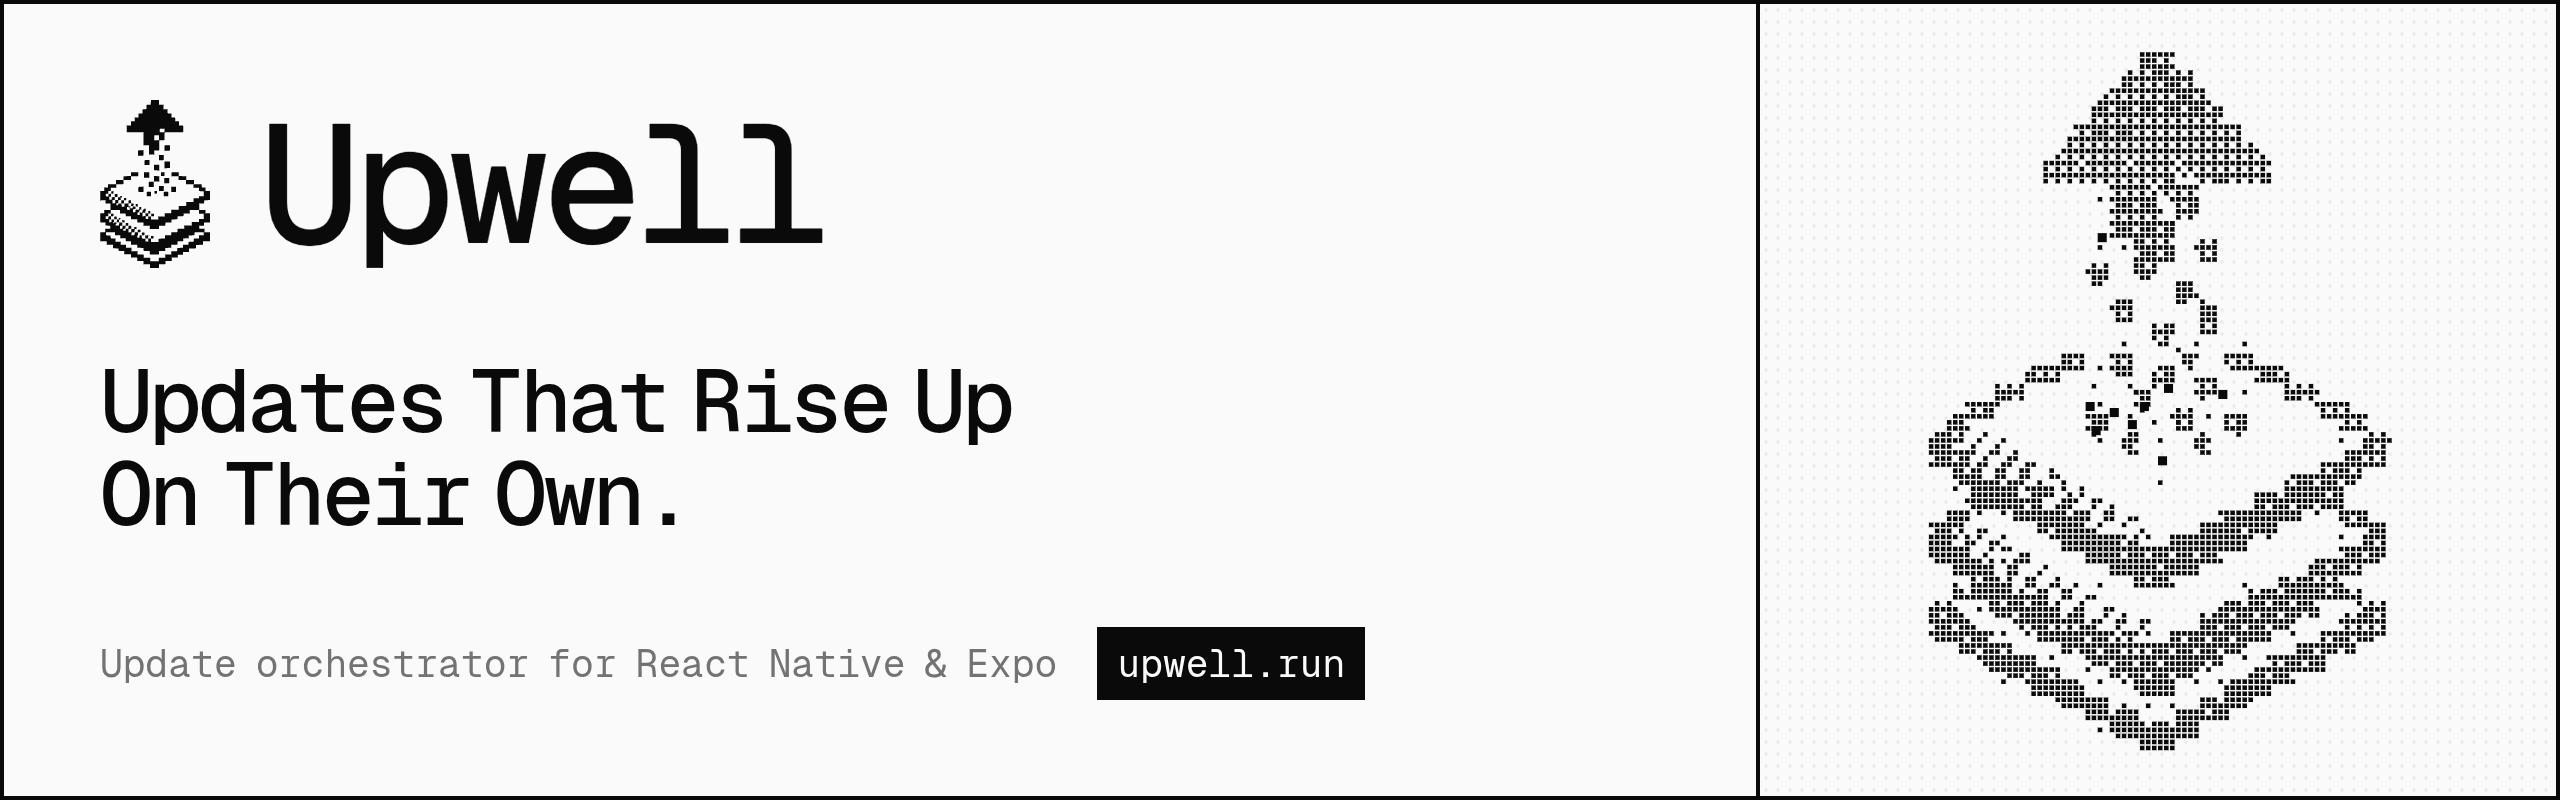
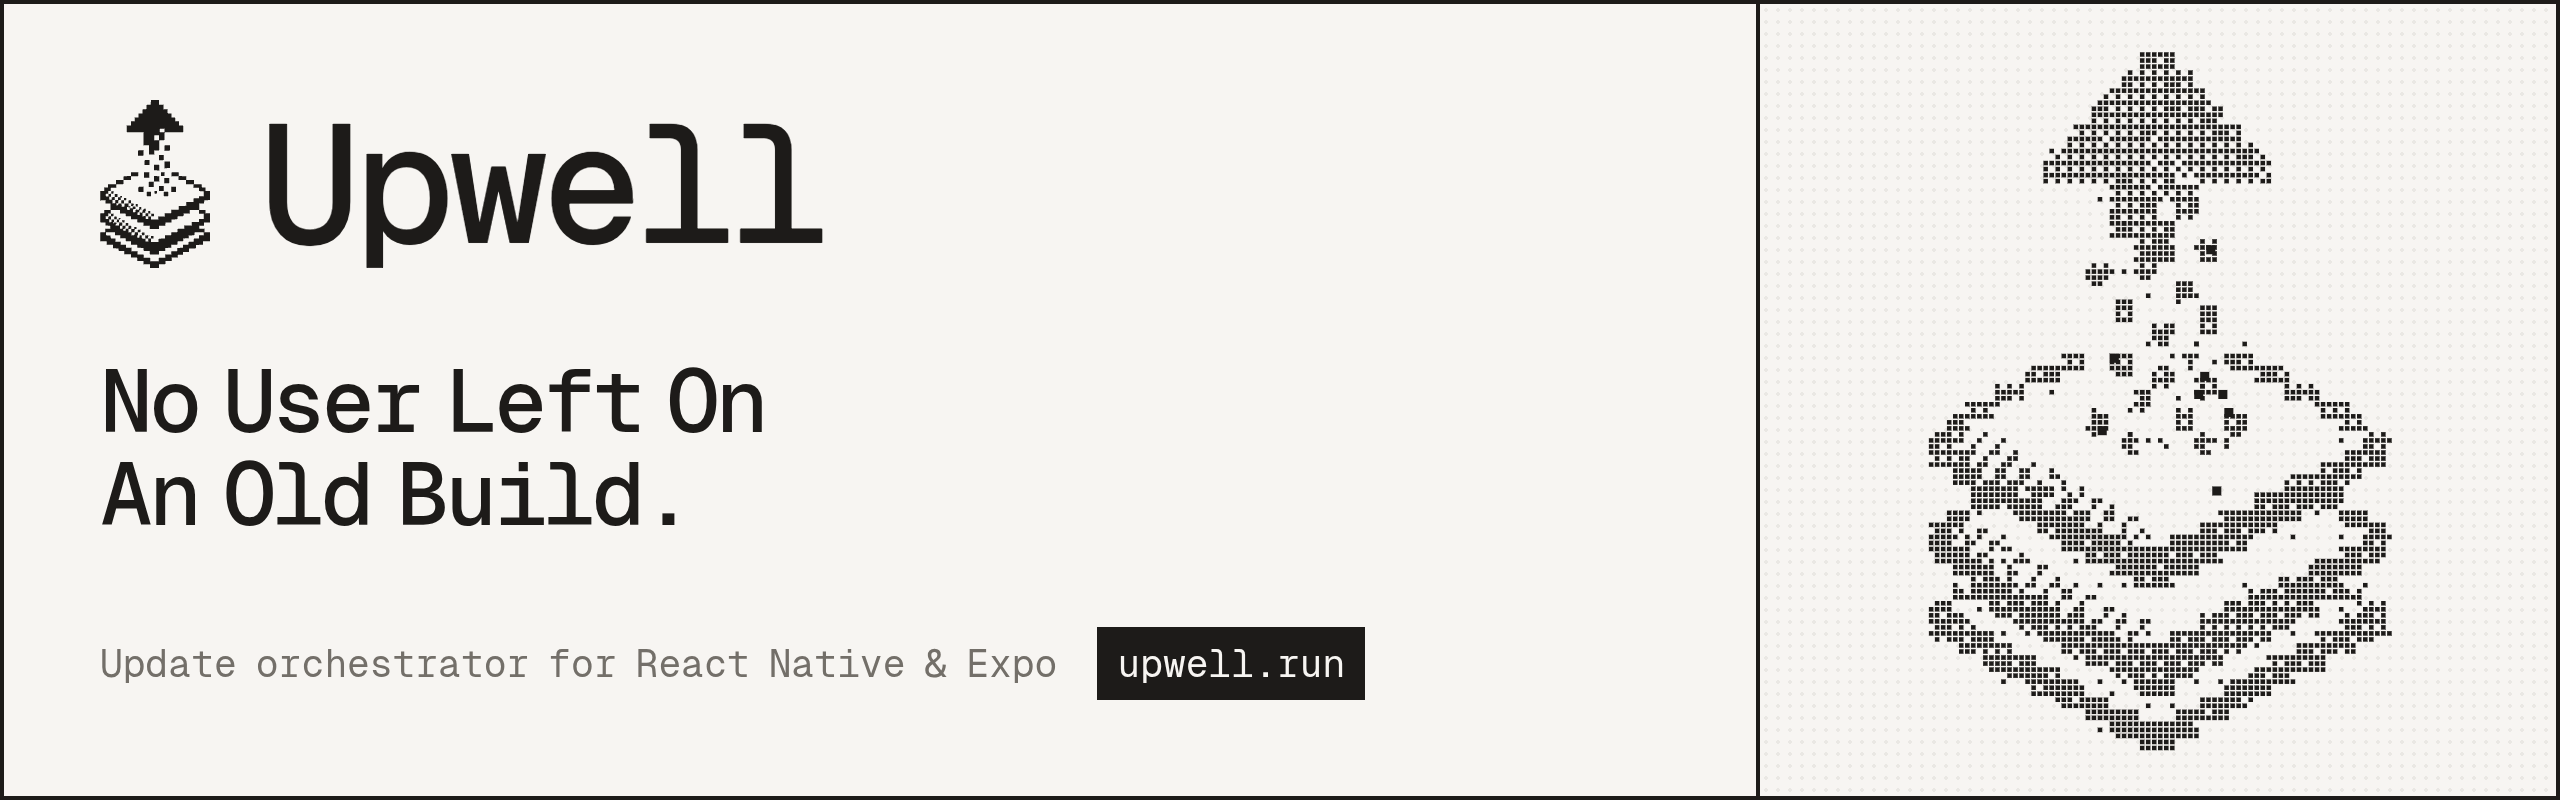
feat(landing): toned-down monochrome palette and new hero copy
Warm off-white and off-black instead of pure #fafafa/#0a0a0a, with a
warm neutral scale. Hero and brand cards now lead with "No user left on
an old build." Banners and social images re-rendered.

Claude-Session: https://claude.ai/code/session_01RX4BmMoDWeVe1veCF2cV8t

diff --git a/apps/landing/app/global.css b/apps/landing/app/global.css
@@ -1,45 +1,58 @@
 @import 'tailwindcss';
 
-/* Upwell design system: monochrome. Source of truth: BRAND.md */
+/* Upwell design system: monochrome, toned down (warm off-white and off-black). Source of truth: BRAND.md */
 @theme {
-  --color-background: #fafafa;
-  --color-foreground: #0a0a0a;
-  --color-muted: #f5f5f5;
-  --color-muted-foreground: #737373;
-  --color-popover: #ffffff;
-  --color-popover-foreground: #0a0a0a;
-  --color-card: #ffffff;
-  --color-card-foreground: #0a0a0a;
-  --color-border: #e5e5e5;
-  --color-primary: #0a0a0a;
-  --color-primary-foreground: #fafafa;
-  --color-secondary: #f5f5f5;
-  --color-secondary-foreground: #0a0a0a;
-  --color-accent: #f2f2f2;
-  --color-accent-foreground: #0a0a0a;
-  --color-ring: #a3a3a3;
+  --color-background: #f7f5f2;
+  --color-foreground: #1d1b19;
+  --color-muted: #efedea;
+  --color-muted-foreground: #736f69;
+  --color-popover: #fcfbf9;
+  --color-popover-foreground: #1d1b19;
+  --color-card: #fcfbf9;
+  --color-card-foreground: #1d1b19;
+  --color-border: #e2dfda;
+  --color-primary: #1d1b19;
+  --color-primary-foreground: #f7f5f2;
+  --color-secondary: #efedea;
+  --color-secondary-foreground: #1d1b19;
+  --color-accent: #edeae6;
+  --color-accent-foreground: #1d1b19;
+  --color-ring: #a8a49e;
+
+  /* Warm-tinted neutral scale, so hard-coded neutral-* utilities match the tokens. */
+  --color-neutral-50: #fbfaf8;
+  --color-neutral-100: #f6f4f1;
+  --color-neutral-200: #e7e4df;
+  --color-neutral-300: #d7d3cd;
+  --color-neutral-400: #a5a19a;
+  --color-neutral-500: #77736c;
+  --color-neutral-600: #55524d;
+  --color-neutral-700: #423f3b;
+  --color-neutral-800: #282623;
+  --color-neutral-900: #191816;
+  --color-neutral-950: #0f0e0c;
 
   --font-sans: var(--font-geist-mono), ui-monospace, SFMono-Regular, Menlo, monospace;
   --font-mono: var(--font-geist-mono), ui-monospace, SFMono-Regular, Menlo, monospace;
 }
 
 .dark {
-  --color-background: #0a0a0a;
-  --color-foreground: #fafafa;
-  --color-muted: #141414;
-  --color-muted-foreground: #a3a3a3;
-  --color-popover: #111111;
-  --color-popover-foreground: #fafafa;
-  --color-card: #111111;
-  --color-card-foreground: #fafafa;
-  --color-border: #262626;
-  --color-primary: #fafafa;
-  --color-primary-foreground: #0a0a0a;
-  --color-secondary: #171717;
-  --color-secondary-foreground: #fafafa;
-  --color-accent: #1a1a1a;
-  --color-accent-foreground: #fafafa;
-  --color-ring: #525252;
+  --color-background: #151412;
+  --color-foreground: #efedea;
+  --color-muted: #1f1e1b;
+  --color-muted-foreground: #a49f98;
+  --color-popover: #1b1a18;
+  --color-popover-foreground: #efedea;
+  --color-card: #1b1a18;
+  --color-card-foreground: #efedea;
+  --color-border: #302d2a;
+  --color-primary: #efedea;
+  --color-primary-foreground: #151412;
+  --color-secondary: #22201e;
+  --color-secondary-foreground: #efedea;
+  --color-accent: #262421;
+  --color-accent-foreground: #efedea;
+  --color-ring: #585550;
 }
 
 @layer base {

diff --git a/apps/landing/app/page.tsx b/apps/landing/app/page.tsx
@@ -232,17 +232,17 @@ export default function HomePage() {
         <section className="relative grid min-w-0 items-center gap-8 px-6 pt-16 pb-10 md:grid-cols-[1.1fr_1fr] md:px-12 md:pt-24">
           <div className="relative z-10 flex min-w-0 flex-col items-start gap-6">
             <span className="rounded-full border bg-card px-3 py-1 text-xs text-muted-foreground">
-              v0.1 · React Native · Expo
+              Open source · React Native · Expo
             </span>
             <h1 className="upwell-display text-[2.6rem] leading-[1.05] font-medium sm:text-6xl">
-              Updates That <br className="hidden md:inline" />
-              Rise Up On <br className="hidden md:inline" />
-              Their Own.
+              No User Left <br className="hidden md:inline" />
+              On An Old <br className="hidden md:inline" />
+              Build.
             </h1>
             <p className="max-w-md text-[15px] leading-relaxed text-muted-foreground">
-              Upwell is an update orchestrator for React Native and Expo. One policy decides, on
-              every launch, whether a user needs an OTA update, a new store build, or nothing.
-              Upwell drives it end to end.
+              On every launch, Upwell works out whether a user needs an OTA update, a new version
+              from the store, or nothing, and runs that update for them. It also catches the users
+              your OTA updates can no longer reach.
             </p>
             <div className="flex flex-wrap gap-3">
               <PillLink href={docs('/quick-start')} solid>

diff --git a/apps/landing/app/card/[format]/page.tsx b/apps/landing/app/card/[format]/page.tsx
@@ -58,9 +58,9 @@ export default async function Card({ params }: PageProps<'/card/[format]'>) {
                 letterSpacing: '-0.04em',
                 wordSpacing: '-0.28em',
               }}>
-              Updates That Rise Up
+              No User Left On
               <br />
-              On Their Own.
+              An Old Build.
             </div>
             <div className="flex items-center gap-5" style={{ fontSize: tall ? 22 : 19 }}>
               <span className="text-muted-foreground">

diff --git a/apps/landing/components/home/dither-band.tsx b/apps/landing/components/home/dither-band.tsx
@@ -7,7 +7,7 @@ export function DitherBand({ className }: { className?: string }) {
   return (
     <div className={className} aria-hidden>
       <Dither
-        palette={['#0a0a0a', '#262626', '#525252', '#a3a3a3']}
+        palette={['#151412', '#282623', '#55524d', '#a5a19a']}
         pixelSize={3}
         waveSpeed={0.03}
         waveFrequency={2.5}

diff --git a/BRAND.md b/BRAND.md
@@ -1,6 +1,6 @@
 # Upwell design system
 
-Minimal and monochrome: black, white and greys, with one typeface. Color never carries meaning on
+Minimal and monochrome: toned-down black, white and warm greys, with one typeface. Color never carries meaning on
 its own. Hierarchy comes from weight, size, borders and texture (grid lines, hatching, dither).
 
 ## Logo
@@ -36,21 +36,23 @@ crisp at any size.
 
 ## Color
 
-One neutral scale. Light and dark themes mirror each other.
+Black and white, toned down: a warm off-white and a warm off-black instead of pure `#FFF` and
+`#000`, with greys that lean the same way. Still monochrome, with no accent color. Light and dark
+themes mirror each other.
 
-| Token              | Light     | Dark      | Use                                                                 |
-| ------------------ | --------- | --------- | ------------------------------------------------------------------- |
-| `background`       | `#FAFAFA` | `#0A0A0A` | Page                                                                |
-| `surface`          | `#FFFFFF` | `#111111` | Cards, code blocks, popovers                                        |
-| `foreground`       | `#0A0A0A` | `#FAFAFA` | Text, primary buttons, the logo                                     |
-| `muted-foreground` | `#737373` | `#A3A3A3` | Secondary text                                                      |
-| `border`           | `#E5E5E5` | `#262626` | Hairlines, grid lines                                               |
-| `accent`           | `#F2F2F2` | `#1A1A1A` | Hover, subtle fills                                                 |
-| `primary`          | `#0A0A0A` | `#FAFAFA` | Same as foreground: buttons are solid black (light) or white (dark) |
+| Token              | Light     | Dark      | Use                                                                         |
+| ------------------ | --------- | --------- | --------------------------------------------------------------------------- |
+| `background`       | `#F7F5F2` | `#151412` | Page                                                                        |
+| `surface`          | `#FCFBF9` | `#1B1A18` | Cards, code blocks, popovers                                                |
+| `foreground`       | `#1D1B19` | `#EFEDEA` | Text, primary buttons, the logo                                             |
+| `muted-foreground` | `#736F69` | `#A49F98` | Secondary text                                                              |
+| `border`           | `#E2DFDA` | `#302D2A` | Hairlines, grid lines                                                       |
+| `accent`           | `#EDEAE6` | `#262421` | Hover, subtle fills                                                         |
+| `primary`          | `#1D1B19` | `#EFEDEA` | Same as foreground: buttons are solid off-black (light) or off-white (dark) |
 
-Neutral scale for anything else: `50 #FAFAFA` · `100 #F5F5F5` · `200 #E5E5E5` · `300 #D4D4D4` ·
-`400 #A3A3A3` · `500 #737373` · `600 #525252` · `700 #404040` · `800 #262626` · `900 #171717` ·
-`950 #0A0A0A`.
+Neutral scale for anything else (it replaces Tailwind's `neutral-*`): `50 #FBFAF8` · `100 #F6F4F1` ·
+`200 #E7E4DF` · `300 #D7D3CD` · `400 #A5A19A` · `500 #77736C` · `600 #55524D` · `700 #423F3B` ·
+`800 #282623` · `900 #191816` · `950 #0F0E0C`.
 
 ## Type
 

diff --git a/AGENTS.md b/AGENTS.md
@@ -16,7 +16,7 @@ that work.
 **The contract with `upwell`:** this repo depends on it only through published npm packages
 (`@upwell/core`) and public URLs (`https://docs.upwell.run/schemas/*`), never by path. Changing
 the policy format happens in `upwell` first (core and schemas, released to npm), then the version
-is bumped here. Locally the two repos sit side by side (`~/projects/native` is `upwell`).
+is bumped here. Locally the two repos sit side by side in `~/projects/native` (`updateswell/` is `upwell`, `platform/` is this repo).
 
 ## Layout
 
@@ -67,7 +67,7 @@ when that app (or shared files) changed.
   Prettier config is in the repo.
 - Commit messages: Conventional Commits with a scope where useful (`feat(landing): …`). Small
   changes go straight to `main` and are pushed; CI must stay green.
-- Design: monochrome (black, white, greys) and Geist Mono, per [`BRAND.md`](BRAND.md). Edit the
+- Design: monochrome (toned-down black, white and warm greys) and Geist Mono, per [`BRAND.md`](BRAND.md). Edit the
   `app/card` templates and re-render instead of editing brand PNGs.
 
 ## Product rules

diff --git a/README.md b/README.md
@@ -1,7 +1,7 @@
 <a href="https://upwell.run">
   <picture>
     <source media="(prefers-color-scheme: dark)" srcset="apps/landing/public/brand/banner-dark.png">
-    <img src="apps/landing/public/brand/banner-light.png" alt="Upwell: updates that rise up on their own. Update orchestrator for React Native and Expo.">
+    <img src="apps/landing/public/brand/banner-light.png" alt="Upwell: no user left on an old build. Update orchestrator for React Native and Expo.">
   </picture>
 </a>
 
